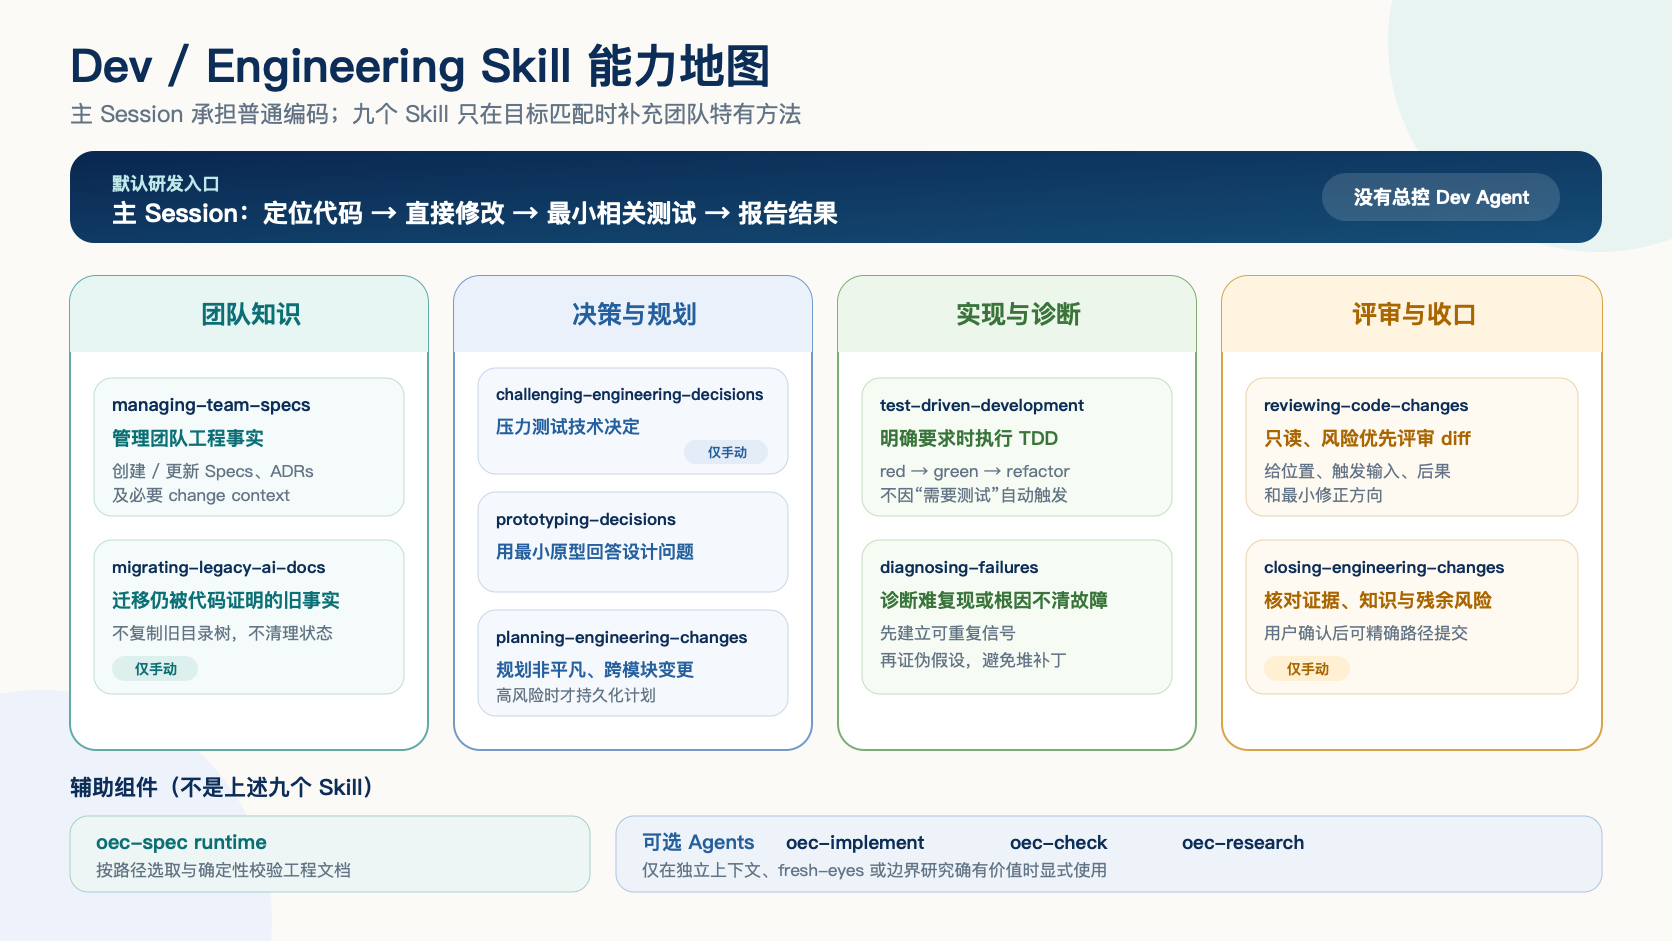
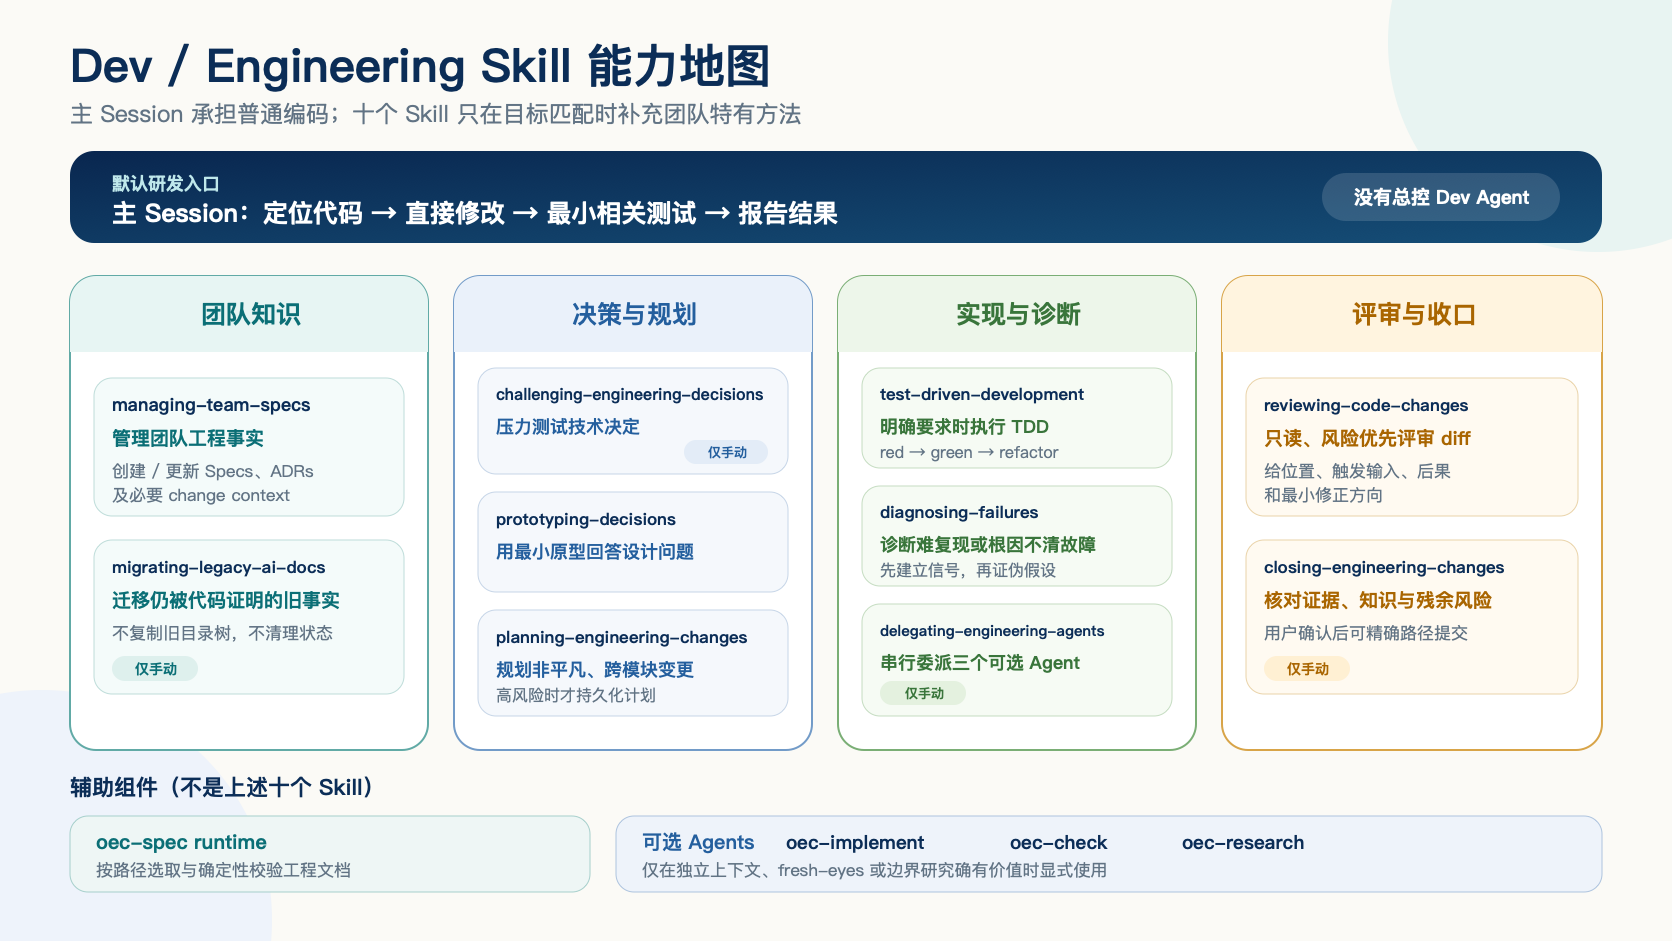
feat(engineering): add explicit agent delegation skill

Changed region(s): [[0.5287, 0.4006, 0.6842, 0.7705], [0.1555, 0.8321, 0.1866, 0.8629]]

diff --git a/oec-engineering/skills/delegating-engineering-agents/SKILL.md b/oec-engineering/skills/delegating-engineering-agents/SKILL.md
@@ -1,0 +1,69 @@
+---
+name: delegating-engineering-agents
+description: Explicitly routes a bounded engineering change to an OEC research, implementation, or check Agent, including a user-requested sequential full flow. Do not use for ordinary coding, research, review, planning, closing, or automatic workflow orchestration.
+argument-hint: "[change-id] <research|implement|check|full> [question]"
+disable-model-invocation: true
+---
+
+# Delegating engineering agents
+
+Coordinate host-native delegation from the main session. Do not perform the delegated research,
+implementation, or check yourself, and do not load Agent Markdown files by path.
+
+## Select a mode
+
+Require one explicit mode. If it is absent or ambiguous, show the argument hint and stop.
+
+- `research`: require an existing change ID and a concrete research question; dispatch
+  `oec-research`, then report its result.
+- `implement`: require an existing change ID; dispatch `oec-implement`, then report its result.
+- `check`: require a non-empty current working-tree diff; dispatch `oec-check`. A change ID is
+  optional and supplies additional context when present.
+- `full`: require an existing change ID and a concrete research question; run `oec-research`, then
+  `oec-implement`, then `oec-check`, strictly in that order.
+
+## Preflight
+
+For `research`, `implement`, and `full`, make the first repository operation a direct existence
+check for `ai-docs/engineering/changes/<change-id>/change.md`. Do not inspect Git status, other
+Skills, or surrounding directories until it succeeds. If it does not exist, report `blocked` in the
+next response and run no further tools. Never create or guess a change package.
+
+For `check`, run `git status --short` and confirm there are staged, unstaged, or untracked changes.
+If there is no diff to inspect, report `blocked` and stop.
+
+Before `full`, run `git status --short`. Proceed with pre-existing changes only when the user has
+explicitly confirmed that every listed path belongs to the same change or is safe to coexist with
+it. Never stash, reset, clean, stage, or commit those paths.
+
+## Dispatch
+
+Use the host's native Agent delegation and select the exact Agent name. Give the Agent only the
+change ID, selected mode, and research question when applicable; the Agent loads its persisted
+change context and team Specs itself.
+
+Treat a missing status as `partial`. Continue a `full` flow only when the previous Agent reports
+`complete` with the verification required by its own contract:
+
+1. After research, read the reported research files. If a finding requires a design, boundary, or
+   compatibility decision, stop and return control to the main session so the change package can
+   be updated.
+2. After implementation, stop on `partial`, `failed`, or `blocked`; do not dispatch the check.
+3. After the check, surface judgment issues to the main session. Do not send them back to the
+   implementation Agent automatically.
+
+Never run Agents concurrently in `full`, create an automatic retry loop, modify the delegated
+artifacts yourself, close the change, or write E3, Pipeline, SAE, UTP, deployment, or remote Git
+state.
+
+## Report
+
+Return a compact coordination report containing:
+
+- selected mode and change ID, if any;
+- each dispatched Agent and its reported status;
+- research files, changed files, fixes, and verification evidence reported by the Agents;
+- the stop reason and next required main-session or user action.
+
+Do not claim that the engineering change is closed. Final evidence reconciliation and any exact-path
+commit remain the responsibility of `closing-engineering-changes`.

diff --git a/docs/migrations/engineering-capability-migration.md b/docs/migrations/engineering-capability-migration.md
@@ -295,7 +295,7 @@ Marketplace: plainOEC-infra
 ├── Plugin: oec-product
 │   └── PM Agent / PRD Skills / oec-e3 dependency
 ├── Plugin: oec-engineering
-│   ├── 9 focused Skills
+│   ├── 10 focused Skills
 │   ├── 3 explicit-use Agents
 │   └── deterministic oec-spec runtime
 ├── Plugin: oec-e3
@@ -306,8 +306,9 @@ Marketplace: plainOEC-infra
 
 `oec-engineering` 第一版没有 Agent、MCP、Commands、Hooks 或 settings。主 Coding Agent 就是研发执行者；
 新的 Skills 只在特定目标下改变它的判断。它不依赖 E3 或 Pipeline，开发者只在需要外部平台能力时
-单独安装对应 Plugin。1.5.1 提供三个显式使用的可选 Agent、三个只允许用户触发的迁移、决策挑战与
-工程收口 Skills、一个按明确原型请求发现的决策原型 Skill，并保持 0 Hook。
+单独安装对应 Plugin。1.6.0 提供三个显式使用的可选 Agent、四个只允许用户触发的迁移、决策挑战、
+Agent 委派与工程收口 Skills、一个按明确原型请求发现的决策原型 Skill，并保持 0 Hook。Agent 委派
+只协调已有 change 或当前 diff，不恢复旧 `oec-dev-flow` 的自动阶段、状态和重试。
 
 ## 6. OEC 团队 Spec 闭环
 
@@ -386,7 +387,7 @@ flowchart LR
 
 迁移成功必须证明：
 
-- Claude Code 原生发现 9 个独立 Skills 和 3 个可选 Agent，不发现 Dev Agent、Commands 或 MCP。
+- Claude Code 原生发现 10 个独立 Skills 和 3 个可选 Agent，不发现 Dev Agent、Commands 或 MCP。
 - 普通实现和简单缺陷不会被强制进入 planning、TDD 或 closing。
 - 技术方案、TDD、困难诊断、代码评审和 Spec 沉淀分别命中唯一能力。
 - 路径作用域选择、Spec/ADR/变更引用和旧配置审计可确定性执行。
@@ -395,15 +396,16 @@ flowchart LR
 - 前端小修复可以直接完成，不生成无意义任务包。
 - 现有 `oec-product` 全部测试继续通过。
 
-E3、Pipeline、SAE、UTP 和真实部署不属于 `oec-engineering@1.5.1` 验收范围。E3 与 Pipeline 即使由
+E3、Pipeline、SAE、UTP 和真实部署不属于 `oec-engineering@1.6.0` 验收范围。E3 与 Pipeline 即使由
 同一 Marketplace 分发，也保持独立 Plugin 和独立证据；SAE/UTP 在类型化接口与非生产 E2E 完成前，
 不以 Markdown、mock 或静态测试宣称旧平台能力已复现。
 
 ## 10. 当前实现状态
 
-`oec-engineering@1.5.1` 已按上述边界实现：
+`oec-engineering@1.6.0` 已按上述边界实现：
 
-- 9 个原生 Skills，其中旧 `ai-docs` 迁移、工程决策挑战与工程收口只允许用户触发；3 个可选 Agent，0 Hook，0 MCP，0 Command。
+- 10 个原生 Skills，其中旧 `ai-docs` 迁移、工程决策挑战、Agent 委派与工程收口只允许用户触发；
+  3 个可选 Agent，0 Hook，0 MCP，0 Command。
 - `oec-spec` source、CLI、可执行入口和无依赖 bundle。
 - Spec/ADR/change contract、路径选择、链接与引用校验、旧安装只读审计。
 - Java/Spring 和前端路径 fixture、bundle 隔离执行及正负触发 cases。

diff --git a/oec-engineering/README.md b/oec-engineering/README.md
@@ -1,6 +1,6 @@
 # oec-engineering
 
-`oec-engineering` 提供聚焦的软件工程 Skills、三个显式使用的可选 Agent，以及项目自有的团队
+`oec-engineering` 提供十个聚焦的软件工程 Skills、三个显式使用的可选 Agent，以及项目自有的团队
 Spec 契约。它不会替代 Claude Code 主 Coding Agent，不安装研发状态机，也不向所有会话注入
 SessionStart 上下文。
 
@@ -39,11 +39,13 @@ bundle 需要 PATH 中存在 Node.js 20 或更新版本。
 /oec-engineering:test-driven-development
 /oec-engineering:diagnosing-failures
 /oec-engineering:reviewing-code-changes
+/oec-engineering:delegating-engineering-agents
 /oec-engineering:closing-engineering-changes
 ```
 
 `migrating-legacy-ai-docs`、`challenging-engineering-decisions` 和 `closing-engineering-changes`
-都是 user-invoked only。决策挑战只压力测试一个技术决定，不自动进入规划或实现；决策原型只在用户
+以及 `delegating-engineering-agents` 都是 user-invoked only。决策挑战只压力测试一个技术决定，
+不自动进入规划或实现；Agent 委派只协调已有 change 或当前 diff，不创建工作流状态；决策原型只在用户
 明确要求用 throwaway artifact 回答交互或状态问题时发现。迁移不删除源文件，TDD 也只在用户明确
 要求 test-first 时适用。
 
@@ -62,6 +64,10 @@ bundle 需要 PATH 中存在 Node.js 20 或更新版本。
 
 通过 Claude Code 的 `@` Agent picker 可以保证派发。它们不是 slash commands，只在用户明确请求，
 或显式调用的 OEC Skill 委派有边界任务时使用；普通实现、评审和研究仍可由主会话完成。
+
+需要统一入口时，显式调用 `delegating-engineering-agents` 并选择 `research`、`implement`、`check`
+或 `full`。`full` 只按 `research → implement → check` 串行推进，任何 Agent 未报告 complete 或研究
+要求修改设计时立即停止；该 Skill 不自动重试、不维护阶段状态，也不提交或关闭 change。
 
 仓库同时保留实验性 Codex manifest 和 TOML Agent。由于本轮没有完成真实 Codex 安装、Agent 发现和
 `oec-spec` PATH 验收，不把这些文件描述为已验证的 Codex 支持。

diff --git a/docs/architecture/platform-plugin-hierarchy.md b/docs/architecture/platform-plugin-hierarchy.md
@@ -1,6 +1,6 @@
 # 平台 Plugin 层级与 MCP 迁移设计
 
-> 当前候选实现：Marketplace `3.0.1`、`oec-product@3.0.2`、`oec-engineering@1.5.1`、
+> 当前候选实现：Marketplace `3.0.1`、`oec-product@3.0.2`、`oec-engineering@1.6.0`、
 > `oec-e3@1.0.1`、`oec-pipeline@1.0.1`、`oec-common@0.2.1`。本文区分“代码和自动验证已完成”与“真实外部平台已验收”；
 > SAE、UTP 和 `oec-testing` 仍未进入 Marketplace。
 
@@ -73,7 +73,7 @@ flowchart TB
 | Plugin | Agent | Skills | MCP | 责任 |
 | --- | ---: | ---: | ---: | --- |
 | `oec-product@3.0.2` | 1 | 3 | 0 | PRD 领域知识和发布语义 |
-| `oec-engineering@1.5.1` | 3 | 9 | 0 | 团队 Specs、显式迁移、决策挑战、决策原型、聚焦工程方法和显式委派 |
+| `oec-engineering@1.6.0` | 3 | 10 | 0 | 团队 Specs、显式迁移、决策挑战、决策原型、聚焦工程方法和显式 Agent 委派 |
 | `oec-e3@1.0.1` | 0 | 0 | 1 | E3 PRD 发布与研发任务执行 |
 | `oec-pipeline@1.0.1` | 0 | 0 | 1 | 既有 dev/test 流水线受控执行 |
 | `oec-common@0.2.1` | 0 | 1 | 0 | 零依赖 HTML-first 幻灯片 |
@@ -132,8 +132,9 @@ plan、幂等和远端校验全部属于 `oec-e3`。
 ### Engineering
 
 `oec-engineering` 不创建 Dev Agent，也不依赖 E3 或 Pipeline。普通编码继续由 Claude Code 主 Agent
-完成；九个 Skills 补充团队 Specs、显式旧 `ai-docs` 迁移、规划、显式决策挑战、决策原型、显式
-TDD、困难诊断、只读评审和收口方法，其中迁移、决策挑战与收口只允许用户触发。
+完成；十个 Skills 补充团队 Specs、显式旧 `ai-docs` 迁移、规划、显式决策挑战、决策原型、显式
+TDD、困难诊断、只读评审、显式 Agent 委派和收口方法，其中迁移、决策挑战、Agent 委派与收口只允许
+用户触发。Agent 委派不保存阶段状态，也不把完整流程变成默认路径。
 
 开发者按需组合：
 

diff --git a/QUICKSTART.md b/QUICKSTART.md
@@ -8,7 +8,7 @@
 | Plugin | 作用 | 主要组件 | 外部副作用 | 依赖关系 |
 | --- | --- | --- | --- | --- |
 | `oec-product` | PRD 写作、只读评审和显式发布 | 1 Agent + 3 Skills | 显式发布时写 E3 | 自动依赖 `oec-e3` |
-| `oec-engineering` | Specs、规划、诊断、review 和 closing | 9 Skills + 3 Agents + `oec-spec` | 无默认外部写入 | 无平台强依赖 |
+| `oec-engineering` | Specs、规划、诊断、显式 Agent 委派、review 和 closing | 10 Skills + 3 Agents + `oec-spec` | 无默认外部写入 | 无平台强依赖 |
 | `oec-e3` | PRD 发布、研发任务和进度 | 10 MCP Tools | 受控写 E3 | 可独立安装，也被 Product 依赖 |
 | `oec-pipeline` | 运行已有 dev/test 流水线 | 4 MCP Tools | 受控启动流水线 | 独立安装 |
 | `oec-common` | HTML Slides | 1 Skill | 无远端业务写入 | 独立安装 |

diff --git a/docs/strategy/oec-infra-next-optimization-talk-track.md b/docs/strategy/oec-infra-next-optimization-talk-track.md
@@ -169,7 +169,7 @@ MCP Tool 适合：
 当前结构包含五个独立分发单元：
 
 - `oec-product@3.0.2`：1 Agent、3 Skills、0 MCP；明确依赖 `oec-e3`。
-- `oec-engineering@1.5.1`：9 Skills（迁移、决策挑战与收口仅用户触发）、3 个显式使用的可选 Agent、0 MCP；普通编码仍由主 Coding Agent 负责。
+- `oec-engineering@1.6.0`：10 Skills（迁移、决策挑战、Agent 委派与收口仅用户触发）、3 个显式使用的可选 Agent、0 MCP；普通编码仍由主 Coding Agent 负责。
 - `oec-e3@1.0.1`：1 MCP Server、10 Tools；负责 PRD 发布和研发任务主链。
 - `oec-pipeline@1.0.1`：1 MCP Server、4 Tools；只运行既有 dev/test 流水线。
 - `oec-common@0.2.1`：1 Skill、0 Agent、0 MCP；提供零依赖 HTML-first 幻灯片。

diff --git a/oec-engineering/CHANGELOG.md b/oec-engineering/CHANGELOG.md
@@ -1,5 +1,14 @@
 # Changelog
 
+## 1.6.0
+
+- Add the manual-only `delegating-engineering-agents` Skill as a single explicit entry point for
+  `oec-research`, `oec-implement`, and `oec-check`.
+- Gate the sequential `full` mode on persisted change context, a concrete research question,
+  complete Agent reports, and explicit handling of pre-existing working-tree changes.
+- Keep delegation stateless and host-native: no automatic retries, workflow state, commits, external
+  writes, or changes to the three Agent contracts.
+
 ## 1.5.1
 
 - Require `oec-implement` and `oec-research` to receive an existing change ID instead of inventing a

diff --git a/oec-engineering/evals/delegating-engineering-agents-positive/prompt.md b/oec-engineering/evals/delegating-engineering-agents-positive/prompt.md
@@ -1,0 +1,10 @@
+---
+name: delegating-engineering-agents-positive
+description: Routes an explicit full engineering Agent delegation request to the intended Skill.
+tags: [routing, positive, delegating-engineering-agents]
+max_turns: 10
+timeout_seconds: 300
+allowed_tools: [Read, Glob, Grep, Skill]
+---
+
+使用 /oec-engineering:delegating-engineering-agents 2026-08-26-cache-race full，先研究“共享状态下是否存在跨实例竞态”，再严格串行实现和独立检查。

diff --git a/oec-engineering/evals/delegating-engineering-agents-negative/prompt.md b/oec-engineering/evals/delegating-engineering-agents-negative/prompt.md
@@ -1,0 +1,10 @@
+---
+name: delegating-engineering-agents-negative
+description: Keeps an ordinary implementation request out of delegating-engineering-agents.
+tags: [routing, negative, delegating-engineering-agents]
+max_turns: 10
+timeout_seconds: 300
+allowed_tools: [Read, Glob, Grep, Skill]
+---
+
+Implement this small null check in the main session and run the relevant unit test.
